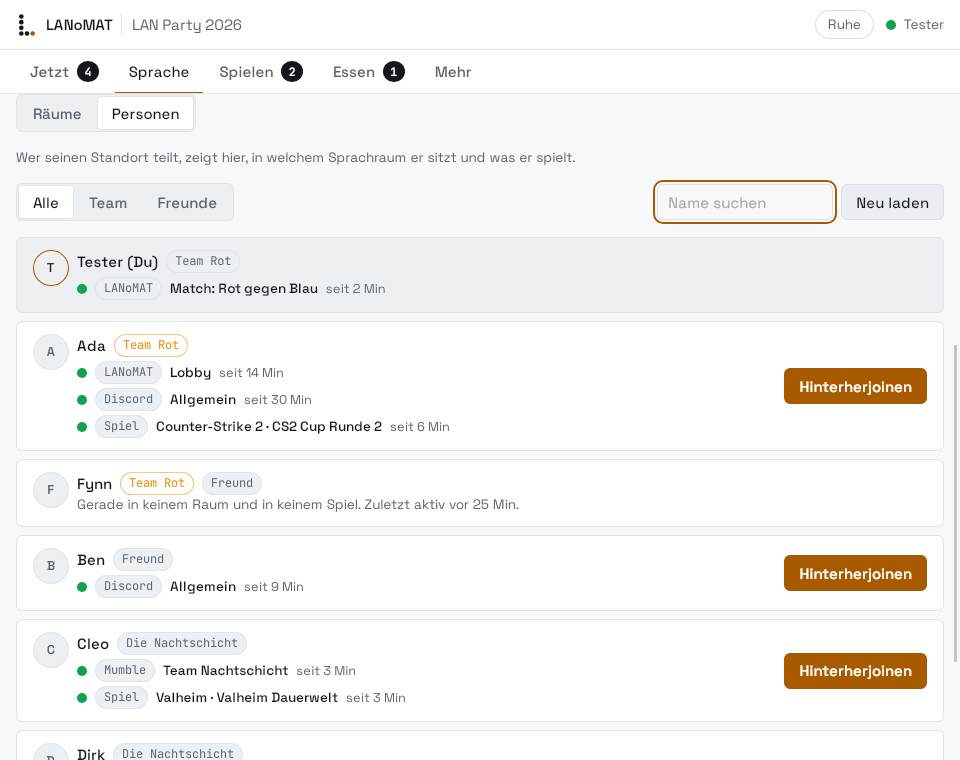
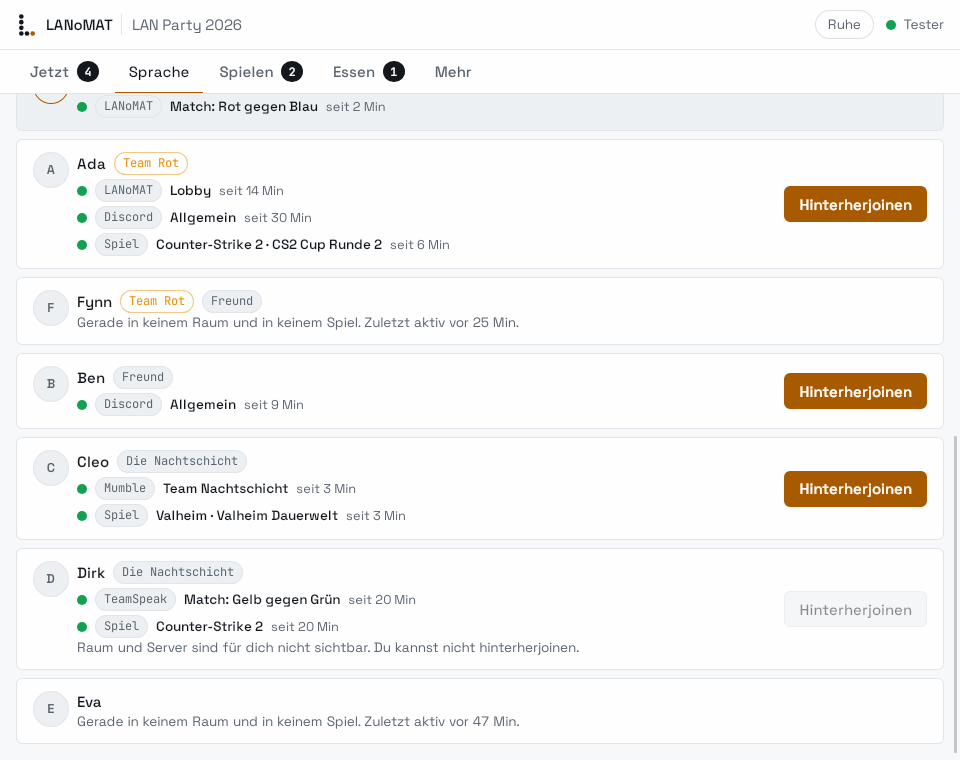
fix(voice-client): clearer Freunde hint, screenshots show the row they are about
Claude-Session: https://claude.ai/code/session_01Akeuj4mXimbYJfAvu84xGt

diff --git a/clients/voice/app/tests/ui-drive.js b/clients/voice/app/tests/ui-drive.js
@@ -889,7 +889,8 @@
                     !byText('.where', 'CS2 Cup', dirk),
                 'only the game name is shown',
             );
-            await toList();
+            dirk.scrollIntoView({ block: 'center' });
+            await sleep(250);
             await shot('29-personen-not-joinable');
         },
     );
@@ -1548,7 +1549,10 @@
                 3000,
                 'unlink confirmation',
             );
-            await toRow('Twitch');
+            q('#screen-mehr [role=alertdialog]').scrollIntoView({
+                block: 'center',
+            });
+            await sleep(250);
             await shot('69f-profile-unlink-confirm');
             await clickText('[role=alertdialog] button', S.profile.unlink);
             await waitFor(

diff --git a/clients/voice/app/ui/js/strings.js b/clients/voice/app/ui/js/strings.js
@@ -385,7 +385,7 @@ export const S = {
         notifications: 'Benachrichtigungen',
         notificationsHint: 'Verlauf und was dir gemeldet wird',
         friends: 'Freunde',
-        friendsHint: 'Wer ist da, Anfragen und Vorschläge',
+        friendsHint: 'Anfragen, Vorschläge und blockierte Personen',
         profile: 'Profil',
         profileHint: 'Dein Name, Bio und verknüpfte Konten',
         settings: 'Einstellungen',

diff --git a/clients/voice/docs/commands.md b/clients/voice/docs/commands.md
@@ -409,7 +409,7 @@ Args `{provider}`. Result `{provider, url, expires_at}`: a single-use link into 
 
 ### `open_link_url`
 
-Args `{url}`. Opens the link of `connection_link_url` with the system browser. **Only** an `https` URL whose origin equals the logged-in server's and whose path starts with `/settings/connections/link/` followed by a token is accepted (no credentials, no fragment, no further path segments, no encoded tricks); anything else is `usage`. A machine without a browser handler answers `local`.
+Args `{url}`. Opens the link of `connection_link_url` with the system browser. **Only** an `https` URL whose origin equals the logged-in server's and whose path starts with `/settings/connections/link/` followed by a token is accepted (no credentials, no fragment, no further path segments, no encoded tricks); anything else is `usage` (a build with the `selftest` feature, used only by the headless UI smoke, additionally accepts plain `http` for a `127.0.0.1` or `localhost` origin that equals the server's; a release build never does). A machine without a browser handler answers `local`.
 
 ### `list_friends`
 
